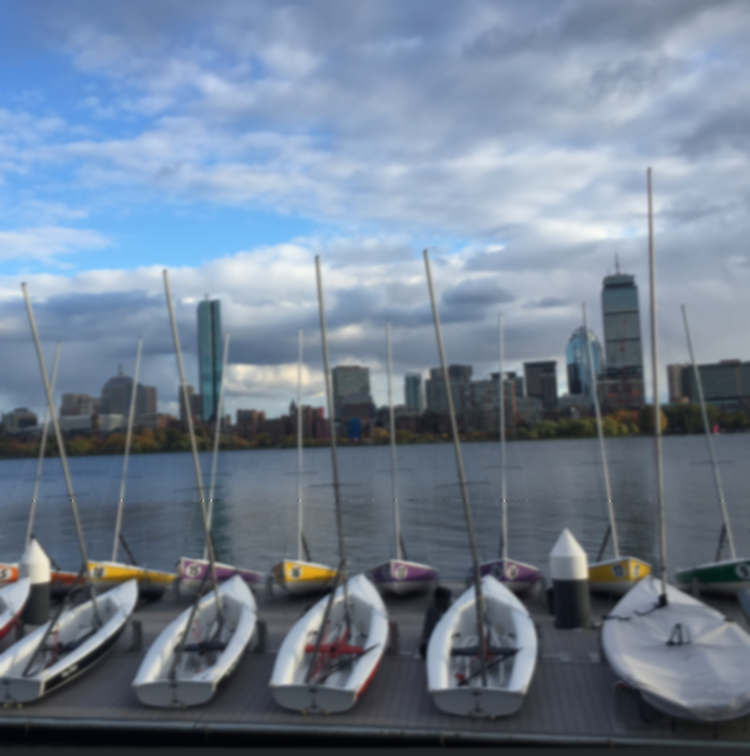
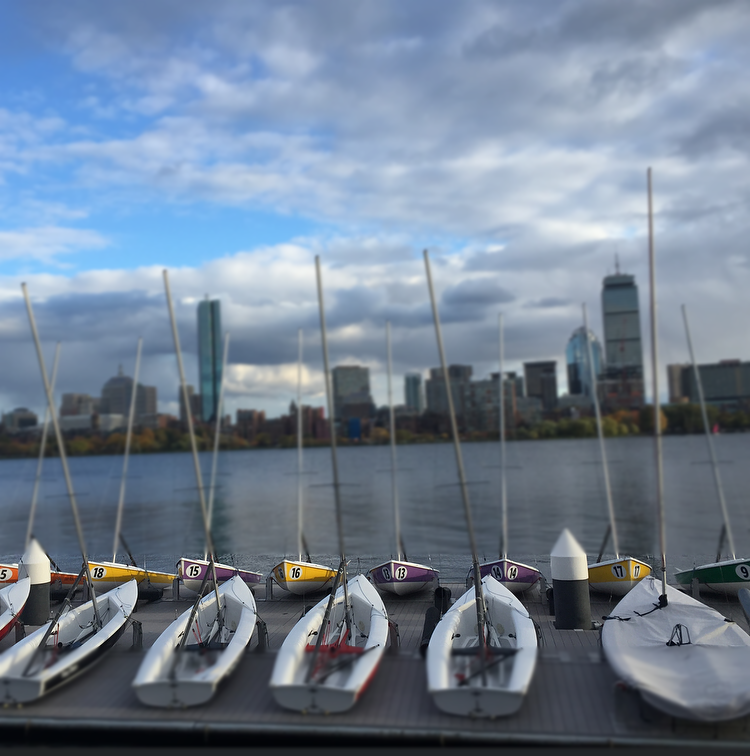
Adjst y-based blur calculation to be linear

diff --git a/TiltShiftColor.py b/TiltShiftColor.py
@@ -108,15 +108,13 @@ def tiltshift(input_image, output_image, buf,
         blur_amount = 1.0
         distance_to_m = abs(y - focus_m)
 
-        if distance_to_m == 0:
-            blur_amount = 0.1
+        # The edge of the in-focus area should fade to blurry so that there is not an abrupt transition
+        no_blur_region = .9 * focus_r
+        # If it is within the middle 90% then don't have any blur at all, but then linearly increase to 1.0
+        if distance_to_m < no_blur_region:
+            blur_amount = 0
         elif (distance_to_m < focus_r):
-            blur_amount = math.log10(y / (distance_to_m / 10.0))
-            blur_amount = max(blur_amount, 0)
-        if blur_amount < 0.1:
-            blur_amount = 0.1
-        elif blur_amount > 1.0:
-            blur_amount = 1.0
+            blur_amount = (1.0 / (focus_r - no_blur_region)) * (distance_to_m - no_blur_region)
             
         for lx in range(0, l_w):
             # Initialize Global x Position
@@ -176,11 +174,11 @@ if __name__ == '__main__':
     # Contrast - Between -255 and 255
     con = 0.0
     # The y-index of the center of the in-focus region
-    middle_in_focus = 500
+    middle_in_focus = 600
     # The number of pixels to either side of the middle_in_focus to keep in focus
-    in_focus_radius = 200
+    in_focus_radius = 50
 
-    local_size = (256, 256)  # 64 pixels per work group
+    local_size = (256, 256)  # This doesn't really affect speed for the Python implementation
     # We need to add [1:] because the first element in this list is the number of colors in RGB, namely 3
     global_size = tuple([round_up(g, l) for g, l in zip(input_image.shape[::-1][1:], local_size)])
     width = input_image.shape[1]
